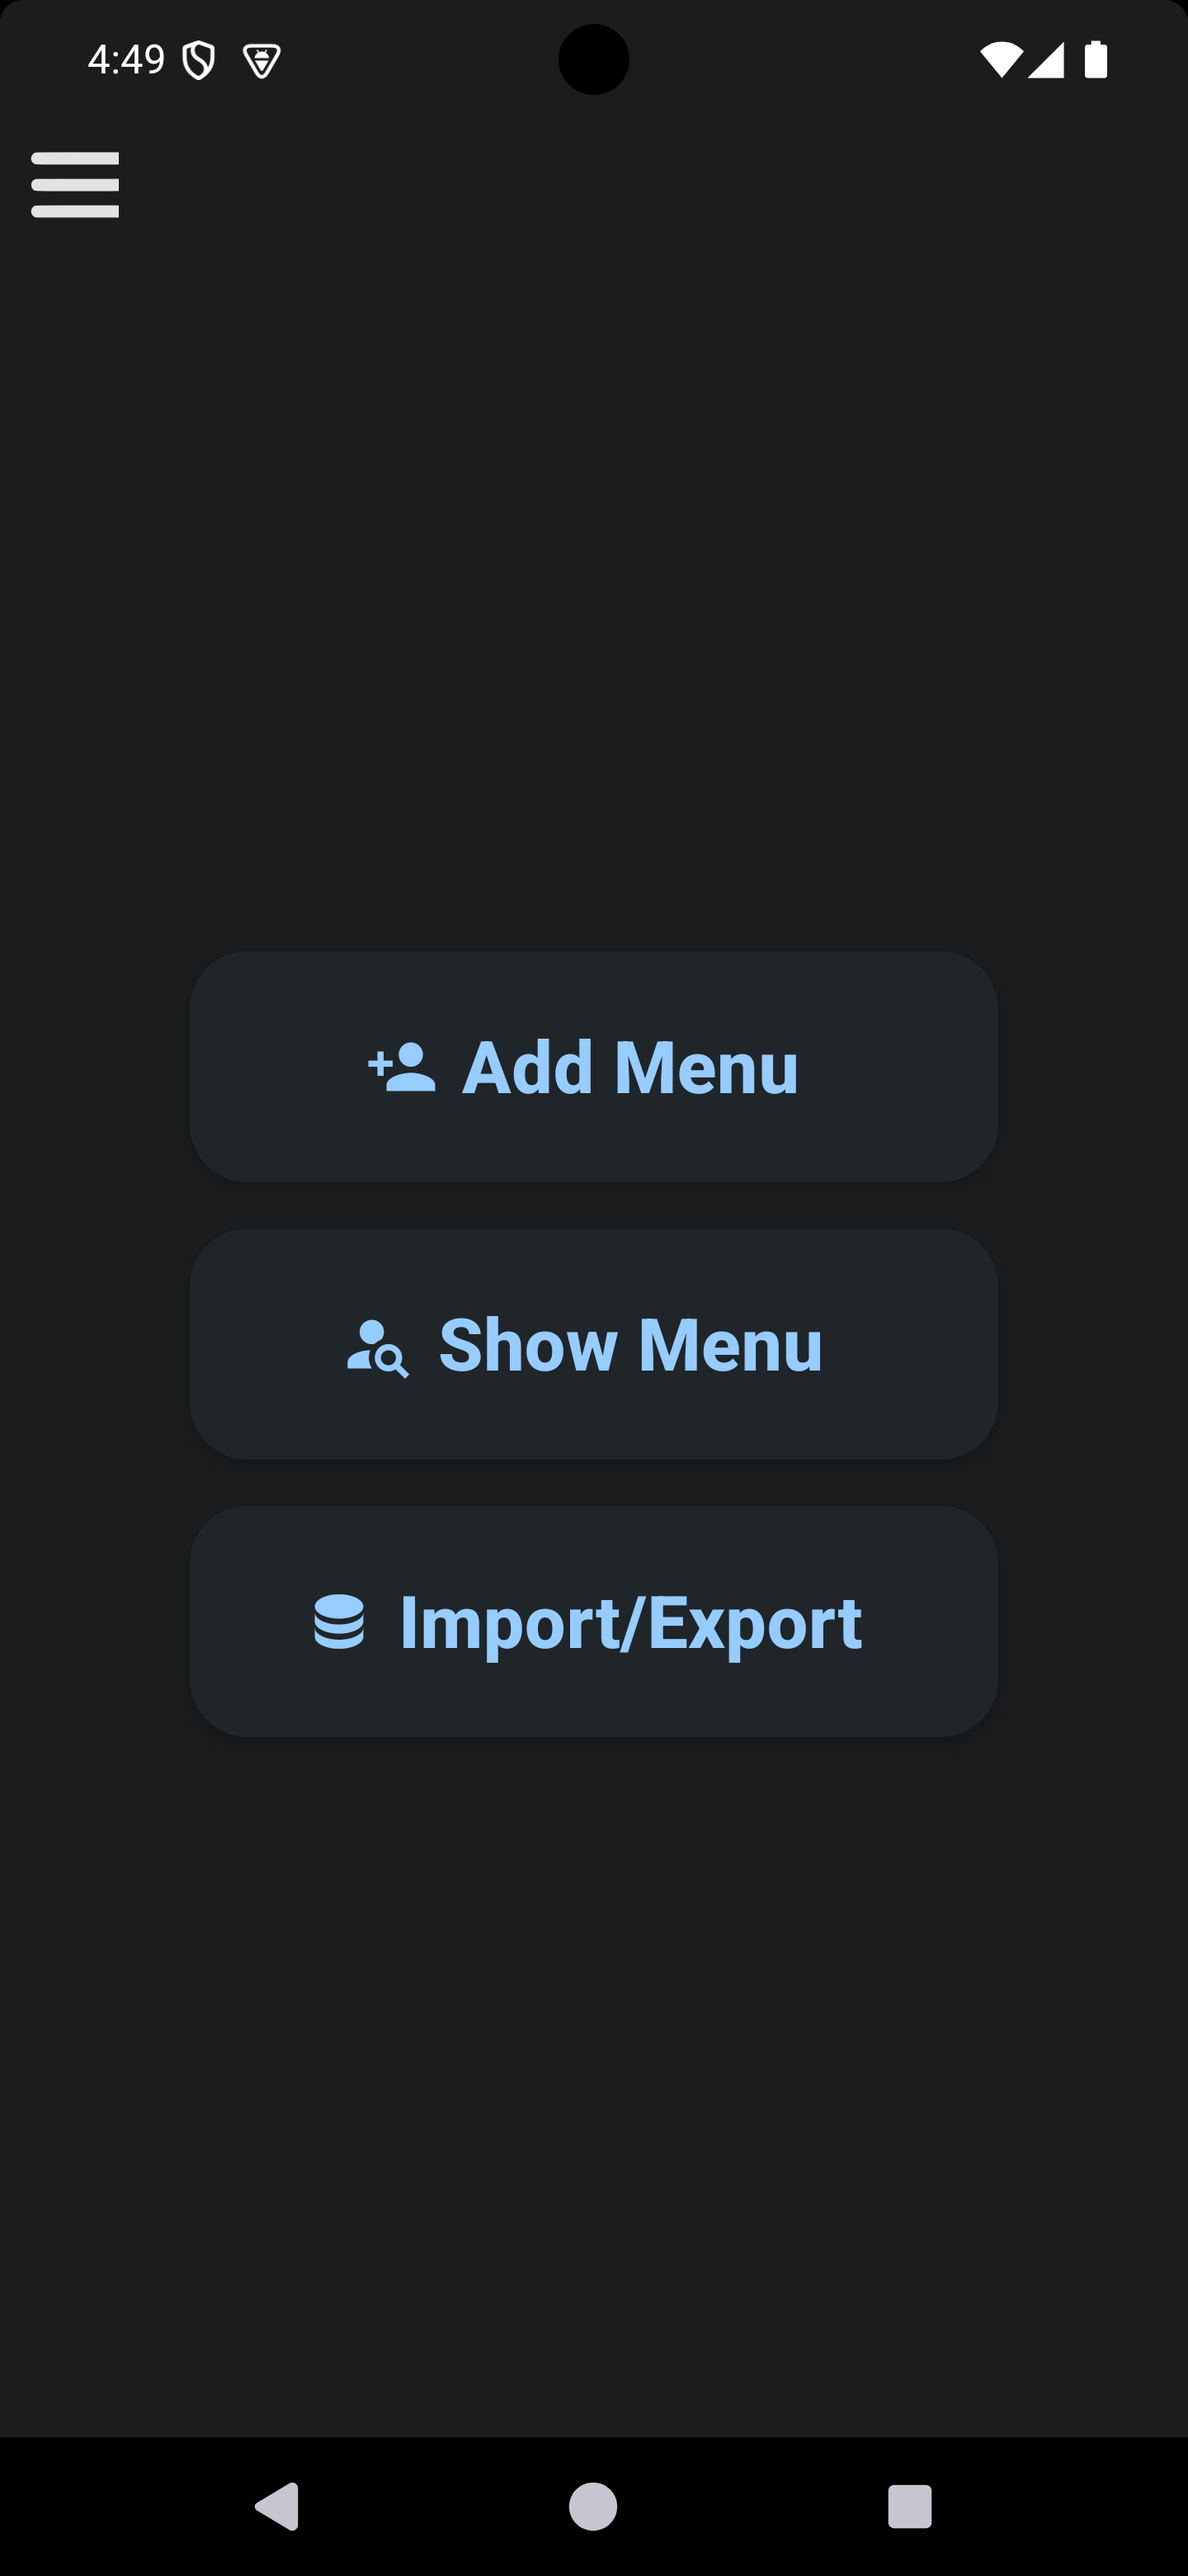
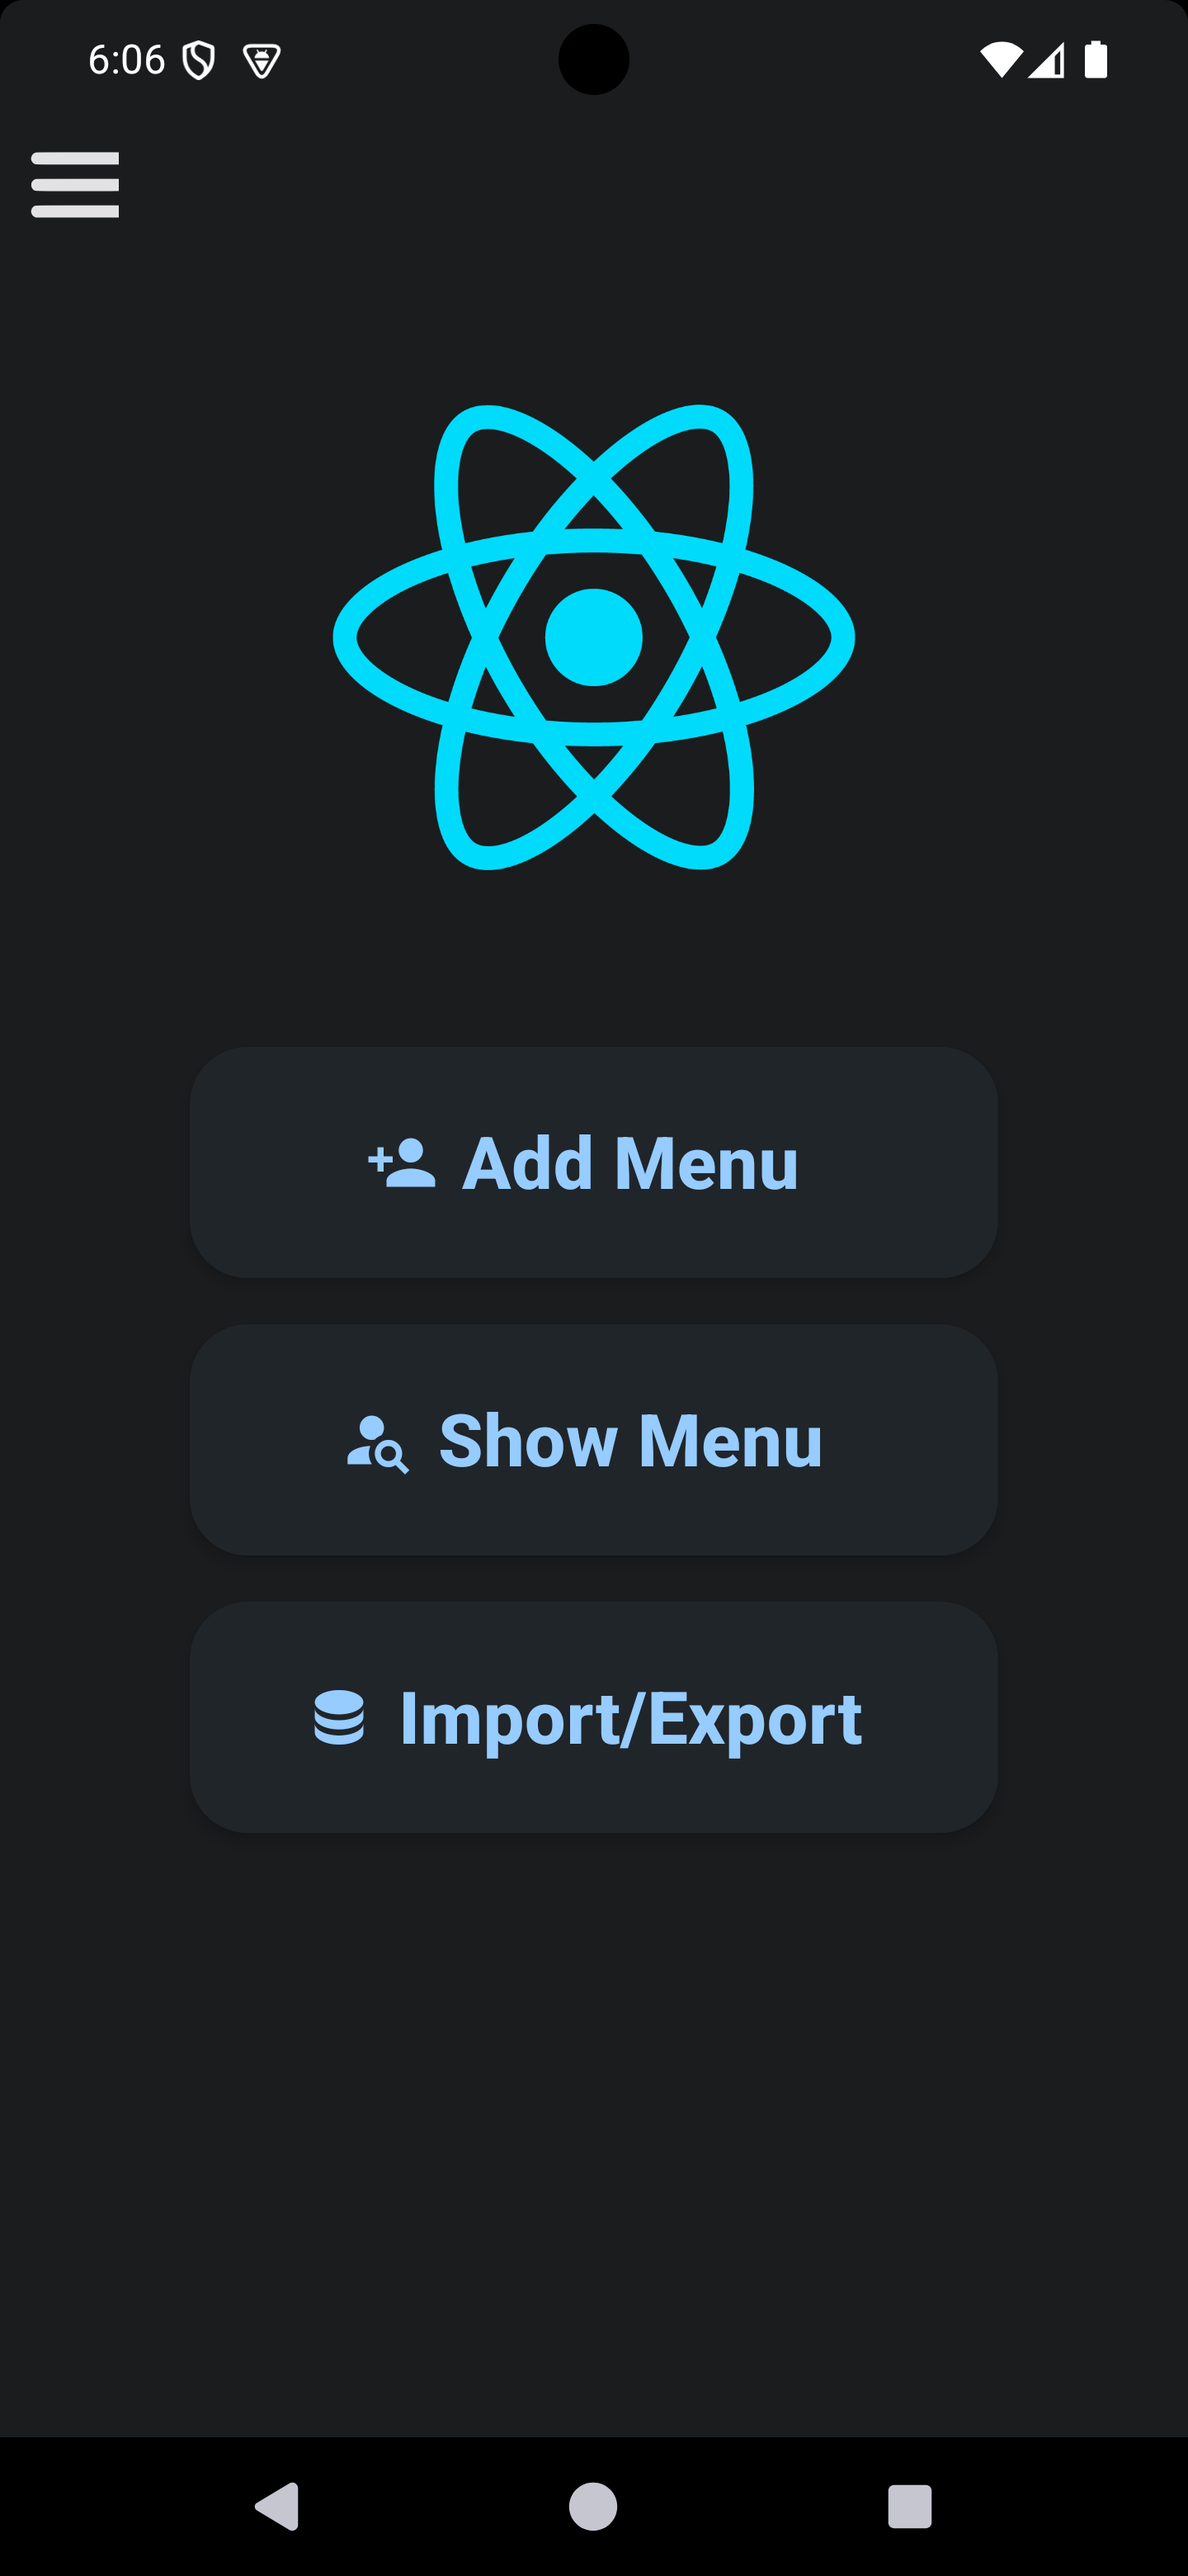
Changed some styles and layouts

diff --git a/app/(drawer)/(home)/importExport.tsx b/app/(drawer)/(home)/importExport.tsx
@@ -112,7 +112,7 @@ export default function importExport() {
 					}
 					case 'export': {
 						return data.map((doc) => {
-							console.log(doc);
+							//console.log(doc);
 							const orderedDoc = {};
 							orderedDoc['client.id'] = doc.client.id || '';
 							orderedDoc['client.name'] = doc.client.name || '';
@@ -126,7 +126,7 @@ export default function importExport() {
 							orderedDoc['deliveryDateTime'] = doc.deliveryDateTime || '';
 							orderedDoc['status'] = doc.order.status || '';
 
-							console.log(orderedDoc);
+							//console.log(orderedDoc);
 							return orderedDoc;
 						});
 					}
@@ -472,7 +472,7 @@ export default function importExport() {
 			return;
 		} finally {
 			await batch.commit();
-			console.log(existingClients);
+			//console.log(existingClients);
 
 			let importMsg = t('importExport.importClientsSuccess');
 			if (existingClients.length) {
@@ -481,7 +481,7 @@ export default function importExport() {
 				)}: ${existingClients.toString()}`;
 			}
 			showSnackbar(importMsg);
-			console.log(importMsg);
+			//(importMsg);
 			setImportClientLoading(false);
 		}
 	};
@@ -548,7 +548,7 @@ export default function importExport() {
 				)}: ${existingProducts.toString()}`;
 			}
 			showSnackbar(importMsg);
-			console.log(importMsg);
+			//console.log(importMsg);
 			setImportProductLoading(false);
 		}
 	};
@@ -578,7 +578,7 @@ export default function importExport() {
 		//console.log(data);
 
 		const ordersData = await formatDataOrder(data, 'order', 'import');
-		console.log(ordersData);
+		//console.log(ordersData);
 
 		// to ensure proper import
 		formatDataToImport(ordersData);
@@ -588,7 +588,7 @@ export default function importExport() {
 
 		try {
 			for (const order of ordersData) {
-				console.log(order);
+				//console.log(order);
 				const check = await checkData(order, 'order');
 				if (!check) {
 					const orderRef = firestore().collection('orders').doc(order.order.id);
@@ -613,7 +613,7 @@ export default function importExport() {
 			importMsg += `\n${t('importExport.importExistingOrders')}`;
 		}
 		showSnackbar(importMsg);
-		console.log(importMsg);
+		//console.log(importMsg);
 		setImportOrderLoading(false);
 	};
 
@@ -664,7 +664,7 @@ export default function importExport() {
 				docPath = `${
 					RNFetchBlob.fs.dirs.DownloadDir
 				}/clientsData${i.toString()}.csv`;
-				console.log(docPath);
+				//console.log(docPath);
 				i++;
 			}
 
@@ -745,7 +745,7 @@ export default function importExport() {
 				docPath = `${
 					RNFetchBlob.fs.dirs.DownloadDir
 				}/productsData${i.toString()}.csv`;
-				console.log(docPath);
+				//console.log(docPath);
 				i++;
 			}
 
@@ -827,7 +827,7 @@ export default function importExport() {
 				docPath = `${
 					RNFetchBlob.fs.dirs.DownloadDir
 				}/ordersData${i.toString()}.csv`;
-				console.log(docPath);
+				//console.log(docPath);
 				i++;
 			}
 

diff --git a/app/(drawer)/(home)/(add)/addOrder.tsx b/app/(drawer)/(home)/(add)/addOrder.tsx
@@ -207,7 +207,7 @@ export default function AddOrder() {
 		try {
 			if (clientId === '') {
 				const currentClientId = getClient(name);
-				console.log(currentClientId);
+				//console.log(currentClientId);
 				if (currentClientId === '') {
 					showSnackbar(t('add.order.clientNameInvalid'));
 					console.log('No client error');
@@ -215,7 +215,7 @@ export default function AddOrder() {
 				}
 			} else if (productId === '') {
 				const currentProduct = getProduct(productName);
-				console.log(!currentProduct);
+				//console.log(!currentProduct);
 				if (Object.keys(currentProduct).length === 0) {
 					showSnackbar(t('add.order.productNameInvalid'));
 					console.log('No product error');
@@ -264,7 +264,7 @@ export default function AddOrder() {
 			const newOrder = orders;
 
 			const newOrderRef = firestore().collection('orders').doc();
-			console.log(newOrderRef.id);
+			//console.log(newOrderRef.id);
 			newOrder.push({
 				id: newOrderRef.id,
 				product: { id: productId, name: productName },
@@ -320,7 +320,7 @@ export default function AddOrder() {
 		try {
 			const batch = firestore().batch();
 			for (const order of orders) {
-				console.log(order);
+				//console.log(order);
 				const orderRef = firestore().collection('orders').doc(order.id);
 				//console.log(orderRef);
 				const orderDB = {
@@ -337,7 +337,7 @@ export default function AddOrder() {
 						)
 					),
 				};
-				console.log(orderDB);
+				//console.log(orderDB);
 				batch.set(orderRef, orderDB);
 			}
 			await batch.commit();
@@ -364,15 +364,15 @@ export default function AddOrder() {
 	};
 
 	const deleteOrder = async (item: object) => {
-		console.log(item);
+		//console.log(item);
 
 		try {
 			const orderIndex = orders.findIndex((order) => order.id === item.id);
-			console.log(orderIndex);
+			//console.log(orderIndex);
 
-			console.log(orders);
+			//console.log(orders);
 			const updatedOrder = orders.toSpliced(orderIndex, 1);
-			console.log(updatedOrder);
+			//console.log(updatedOrder);
 			setOrders(updatedOrder);
 
 			showSnackbar(t('add.order.deleted'));

diff --git a/app/(drawer)/(home)/home.tsx b/app/(drawer)/(home)/home.tsx
@@ -1,5 +1,11 @@
 import React from 'react';
-import { View, StyleSheet, ScrollView } from 'react-native';
+import {
+	View,
+	StyleSheet,
+	ScrollView,
+	Image,
+	useWindowDimensions,
+} from 'react-native';
 import { Button } from 'react-native-paper';
 import { router } from 'expo-router';
 import { useTranslation } from 'react-i18next';
@@ -12,6 +18,23 @@ export default function Home() {
 			contentContainerStyle={styles.scrollContainer}
 			keyboardShouldPersistTaps='handled'
 		>
+			<View
+				style={[
+					styles.imageContainer,
+					{
+						width: useWindowDimensions().width * 0.5,
+						height: useWindowDimensions().height * 0.3,
+					},
+				]}
+			>
+				<View style={{ height: '100%', width: '100%' }}>
+					<Image
+						source={require('@/assets/images/logoReact.png')}
+						style={styles.image}
+						resizeMode='contain'
+					/>
+				</View>
+			</View>
 			<View style={styles.buttonContainer}>
 				<Button
 					style={styles.button}
@@ -56,7 +79,7 @@ export default function Home() {
 const styles = StyleSheet.create({
 	scrollContainer: {
 		flexGrow: 1,
-		justifyContent: 'center',
+		//justifyContent: 'center',
 	},
 	buttonContainer: {
 		marginHorizontal: 20,
@@ -75,5 +98,14 @@ const styles = StyleSheet.create({
 		fontWeight: 'bold',
 		overflow: 'visible',
 		paddingTop: 10,
+	},
+	imageContainer: {
+		//backgroundColor: 'blue',
+		alignSelf: 'center',
+	},
+	image: {
+		flex: 1,
+		maxWidth: '100%',
+		maxHeight: '100%',
 	},
 });

diff --git a/components/CustomDrawerContent.tsx b/components/CustomDrawerContent.tsx
@@ -193,10 +193,10 @@ export default function CustomDrawerContent(props: any) {
 		RNFetchBlob.fs
 			.ls(RNFetchBlob.fs.dirs.CacheDir)
 			.then((files) => {
-				console.log(files);
+				//console.log(files);
 				for (const file of files) {
 					if (file.endsWith('.apk')) {
-						console.log(file);
+						//console.log(file);
 						deleteFile(`${RNFetchBlob.fs.dirs.CacheDir}/${file}`);
 					}
 				}
@@ -220,7 +220,7 @@ export default function CustomDrawerContent(props: any) {
 					if (compareVersions(ref.name)) {
 						update = true;
 						setUpdateVersion(ref.name);
-						console.log(ref.name);
+						//console.log(ref.name);
 					}
 				}
 			})
@@ -284,7 +284,7 @@ export default function CustomDrawerContent(props: any) {
 			`updates/${updateFolderName}/${updateFileName}`
 		);
 
-		console.log(`updates/${updateFolderName}/${updateFileName}`);
+		//console.log(`updates/${updateFolderName}/${updateFileName}`);
 
 		const apkPath = `${RNFetchBlob.fs.dirs.CacheDir}/${updateFileName}`;
 

diff --git a/components/DataTableOrder.tsx b/components/DataTableOrder.tsx
@@ -209,7 +209,7 @@ const DataTableOrder = (props: DataTableOrderProps) => {
 									itemStatusChange(item);
 								}}
 								onPress={() => {
-									console.log(item);
+									//console.log(item);
 									showItemModal(item);
 								}}
 							>
